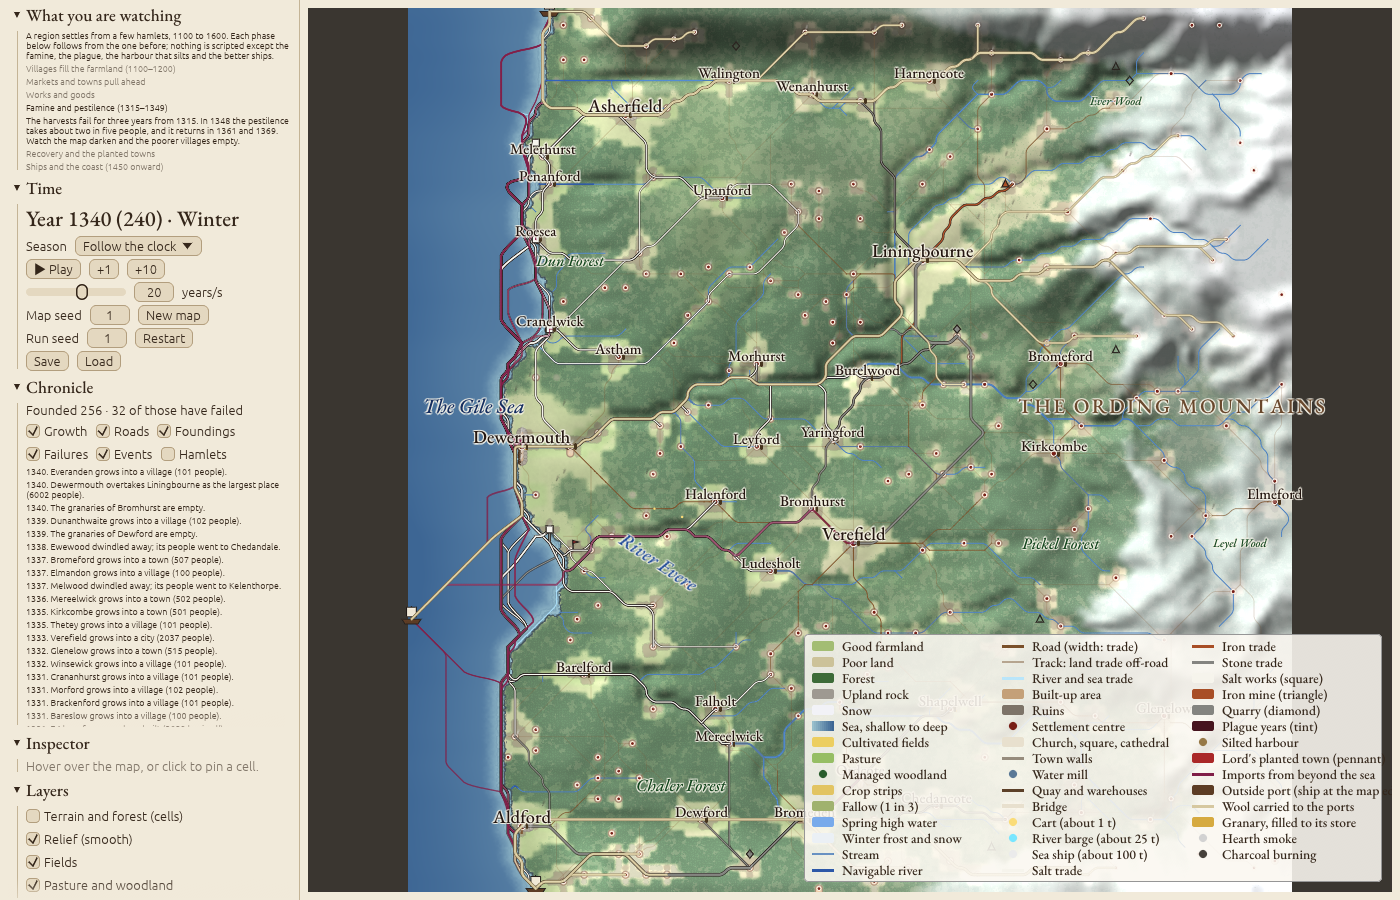
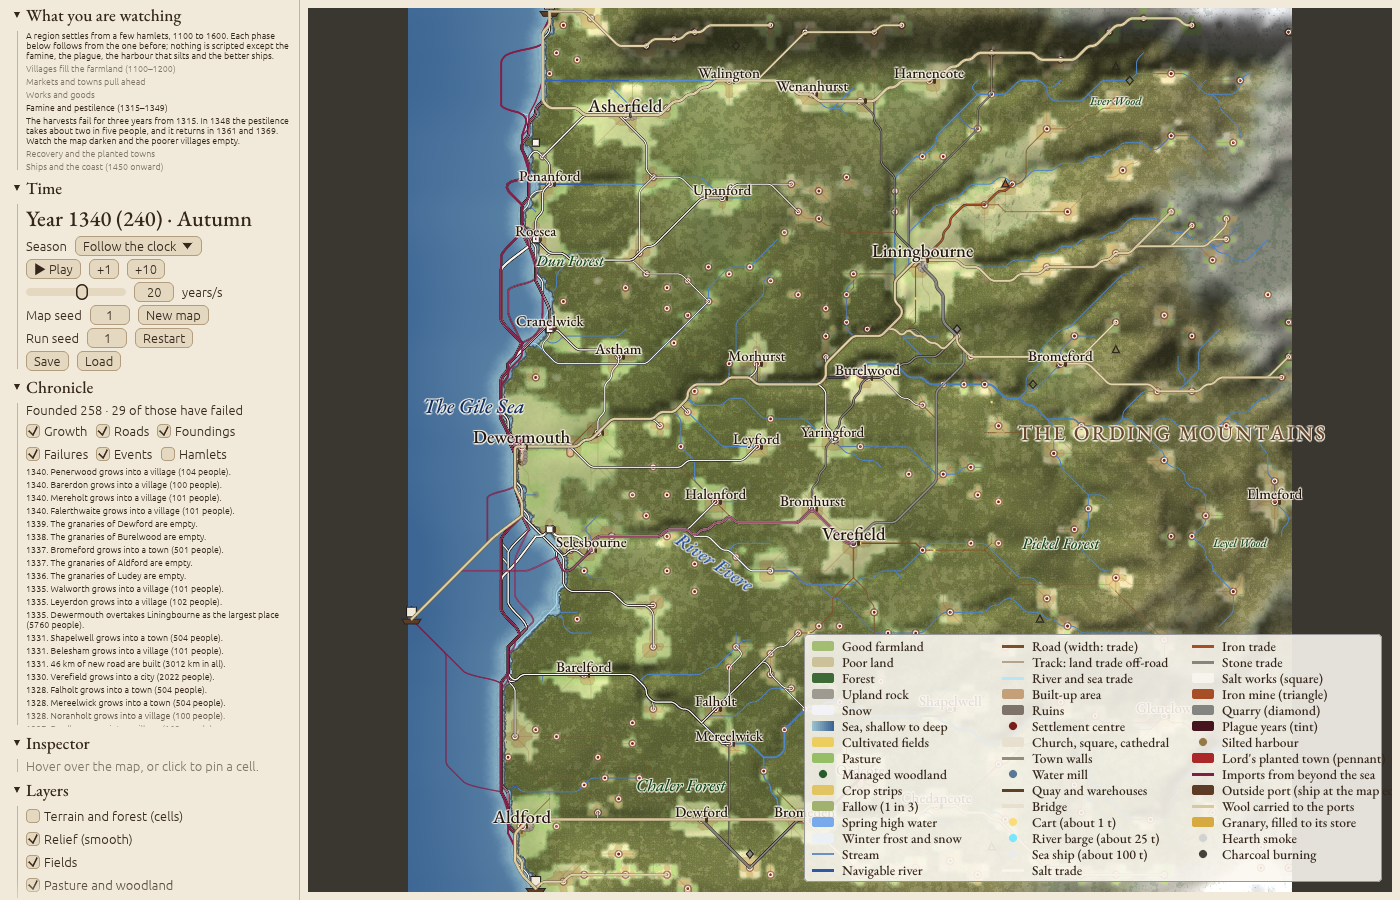
L2 murrain and L4 wool view: shadow_drain 0.045; validate passes, golden 7d534fccaae58528 (D112, D113)
Claude-Session: https://claude.ai/code/session_014BA7MX2NmHLKnGyB3DXHv5

diff --git a/crates/hinterlands-core/src/params.rs b/crates/hinterlands-core/src/params.rs
@@ -191,7 +191,7 @@ define_params! {
         fed_ratio: f32 = 0.9, [0.5, 1], "Food ratio at or above which a settlement counts as fed";
         max_growth: f32 = 0.05, [0.005, 0.2], "Cap on yearly growth as a share of population";
         migration_cap: f32 = 0.06, [0, 0.2], "Most a settlement can lose to town migration in a year, as a share";
-        shadow_drain: f32 = 0.05, [0, 0.1], "Yearly share lost to each larger neighbour in the shadow, per 1,000 of its people";
+        shadow_drain: f32 = 0.045, [0, 0.1], "Yearly share lost to each larger neighbour in the shadow, per 1,000 of its people";
         drain_radius_km: f32 = 8.0, [0, 40], "Distance, km, within which a much larger neighbour drains a place (with shadow_km, D53)";
         shadow_size_ratio: f32 = 3.0, [1, 20], "A neighbour drains only if this many times larger";
         loss_years: f32 = 3.0, [1, 10], "Years over which a food-driven loss is spread";

diff --git a/docs/wool/l2-l4.md b/docs/wool/l2-l4.md
@@ -1,0 +1,50 @@
+# L2 (the murrain) and L4 (the view) (D112)
+
+## L2: the murrain
+- **Built:** in the Historical calendar, wool output from pasture is ×0.7 in 1315–17 and ×0.85 in 1318–22 (`murrain`, `murrain_loss` 0.3, `murrain_late_loss` 0.15).
+- **The figures are approximate,** after Campbell 2000 and Slavin.
+  - No clean English figure for flock losses in 1315–22 was found.
+  - Slavin (2020, *Economic History Review*, from 7,871 manorial accounts) puts the wool crisis down mainly to recurrent sheep scab, which depressed flocks and wool output until the early 1330s ([Stirling repository](https://www.storre.stir.ac.uk/bitstream/1893/30952/1/ehr.12969.pdf)).
+  - The 1319–22 murrain was chiefly a cattle plague.
+  - So the record may favour a longer, milder wool depression than the one built.
+- **Wool, coin and price in the murrain years** (mean of 3 seeds on each map):
+
+| Year | Wool coin | Coin stock | Regional price |
+| --- | --- | --- | --- |
+| 1314 | 3,646 | 87,700 | 1.00 |
+| 1315 | 2,554 (0.70) | 84,700 | 3.41 |
+| 1316 | 2,635 (0.72) | 81,000 | 6.45 |
+| 1317 | 2,625 (0.72) | 78,500 | 1.27 |
+| 1318–22 | 3,090–3,190 (0.85–0.88) | 77,400–78,000 | 1.01–1.19 |
+| 1323 | 3,722 | 78,800 | 0.99 |
+
+  - The coin stock falls about 12% and recovers slowly.
+  - The 1315–16 price spikes are the famine's (harvests −40% and −60%). The price check, taken at 50-year marks, does not see them.
+- **The gate, first run at the L1 defaults:** every check passed except map 3 "over 2,000" (14/20; all six failing seeds had 4 towns).
+- **Tried on map 3, per seed** (over 2,000 / spacing): `k_maint` 1.4 (17 / 20), `market_share` 0.32 (19 / 17), **`shadow_drain` 0.045 (18 / 19)**.
+- **Chosen: `shadow_drain` 0.05 → 0.045** (D113).
+
+## L4: the view (new file `layers/wool.rs`, with small changes to the relief, countryside, hover and chronicle code)
+- **Pasture and sheep come from the model's grazed land** (`Snapshot.pasture`). A snapshot from before L1, which carries none, falls back to the old rule (open land by the fields).
+- **Wool to the ports** is a new route colour, fleece cream: the "Wool to the ports" layer, drawing the 40 largest flows.
+- **The chronicle has two new kinds of line:**
+  - "1420. The fields of Ashby are put down to grass." This is logged when a place puts at least 3 old fields (cleared cells) to grass in a year, at most once per 50 years a place. Map 1 seed 1 has 12 such lines over 500 years.
+  - "1315. Murrain among the sheep of X." This is logged at the place with the most pasture.
+- **Screenshots** (map 1 seed 1): `img/l4-240.png` (1340), `img/l4-350.png` (1450) and `img/l4-350-zoom.png`.
+
+## The gate at `shadow_drain` 0.045, 20 seeds a map: PASSED
+
+| | Map 1 | Map 2 | Map 3 |
+| --- | --- | --- | --- |
+| Over 2,000 | 17/20 | 18/20 | 18/20 |
+| Spacing | 19/20 | 20/20 | 19/20 |
+| Roads | 17/20 | 18/20 | 17/20 |
+| Outside trade | 0.20, 20/20 | 0.22, 20/20 | 0.26, 18/20 |
+| Pasture gates | 20/20 | 20/20 | 20/20 |
+| Clark R² | 0.93 | 0.93 | 0.96 |
+| Price level | 20/20 | 20/20 | 20/20 |
+| Famine dip / weather | 0.19 / 0.87 | 0.19 / 0.88 | 0.19 / 0.88 |
+| Carry-over after cheap years (mean / max) | 0.10 / 0.32 | 0.15 / 0.34 | 0.15 / 0.35 |
+| Runs passing every check | 12/20 | 13/20 | 8/20 |
+
+- **Golden `7d534fccaae58528`;** release wasm gives the same hash at 50.4 ms/year.

diff --git a/docs/milestones.md b/docs/milestones.md
@@ -543,3 +543,17 @@ The legend lists only layers drawn at the current zoom. New URL options: `?on=`,
   - W with wool is about 0;
   - Kent has almost no pasture: its yield layers lack chalk and marsh soils, a data gap noted for later.
 - **Golden `1ebe5979ca2bf8fe`.** Release wasm gives the same hash (`?selftest=500`) at 47.7 ms/year (not gated, D91).
+
+## L2 and L4 — The murrain and the view (D112, D113)
+- **L2:** wool ×0.7 in 1315–17 and ×0.85 in 1318–22, figures approximate. `shadow_drain` 0.045.
+- **L4:**
+  - pasture and sheep drawn from the model;
+  - wool routes in fleece cream;
+  - chronicle lines for grass and murrain;
+  - screenshots in `docs/wool/img`.
+- **`just validate` (Historical, 20 seeds a map): PASSED.**
+  - Over 2,000 17 / 18 / 18, spacing 19 / 20 / 19, roads 17 / 18 / 17.
+  - Runs passing every check: 12 / 13 / 8.
+  - Carry-over after cheap years 0.10–0.15 (max 0.35).
+- **Golden `7d534fccaae58528`.** Release wasm gives the same hash at 50.4 ms/year.
+- **Details:** `docs/wool/l2-l4.md`.

diff --git a/docs/decisions.md b/docs/decisions.md
@@ -723,3 +723,9 @@ Kind: tuning (designer's decision D104).
 - **Market stores carry grain over again** (0.13–0.14 of a mean harvest).
 - **Details:** `docs/wool/l1.md`, "Final build".
 Kind: tuning (designer's decision D110).
+
+## D113 — L2: `shadow_drain` 0.05 → 0.045
+- **Why:** the murrain tipped map 3's "over 2,000" to 14/20. All six failing seeds had 4 towns, one short of the band.
+- **Tried on map 3, per seed** (over 2,000 / spacing): `k_maint` 1.4 (17 / 20), `market_share` 0.32 (19 / 17), `shadow_drain` 0.045 (18 / 19).
+- **Chosen:** the drain, as the smallest change that holds spacing. The gate passes (`docs/wool/l2-l4.md`).
+Kind: tuning (within D110's levers).
